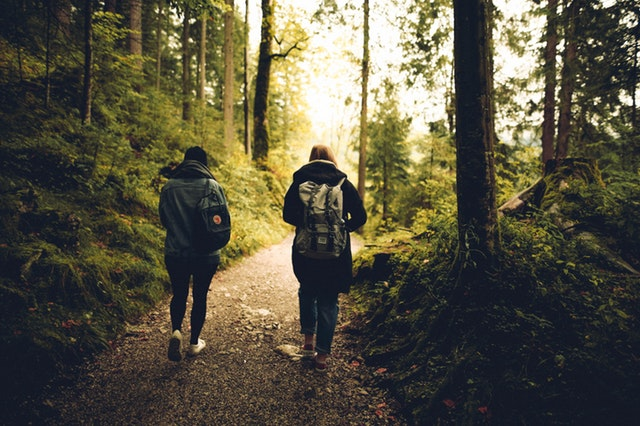
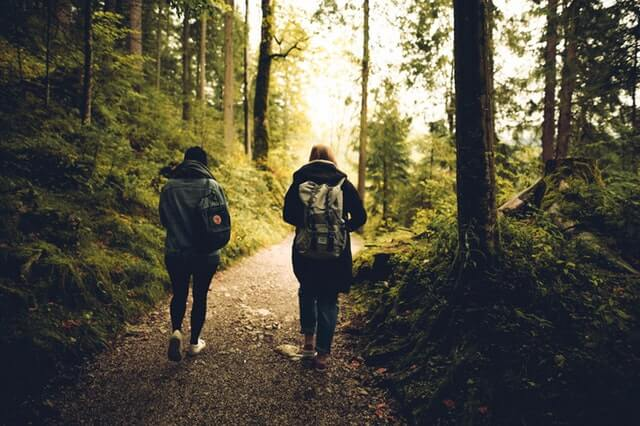
images, css and js optimised

diff --git a/js/main.js b/js/main.js
@@ -184,71 +184,6 @@
     };
 
 
-   /* Alert Boxes
-    * ------------------------------------------------------ */
-    var clAlertBoxes = function() {
-
-        $('.alert-box').on('click', '.alert-box__close', function() {
-            $(this).parent().fadeOut(500);
-        }); 
-
-    };
-
-
-   /* Contact Form
-    * ------------------------------------------------------ */
-    var clContactForm = function() {
-        
-        /* local validation */
-        $('#contactForm').validate({
-        
-            /* submit via ajax */
-            submitHandler: function(form) {
-    
-                var sLoader = $('.submit-loader');
-    
-                $.ajax({
-    
-                    type: "POST",
-                    url: "inc/sendEmail.php",
-                    data: $(form).serialize(),
-                    beforeSend: function() { 
-    
-                        sLoader.slideDown("slow");
-    
-                    },
-                    success: function(msg) {
-    
-                        // Message was sent
-                        if (msg == 'OK') {
-                            sLoader.slideUp("slow"); 
-                            $('.message-warning').fadeOut();
-                            $('#contactForm').fadeOut();
-                            $('.message-success').fadeIn();
-                        }
-                        // There was an error
-                        else {
-                            sLoader.slideUp("slow"); 
-                            $('.message-warning').html(msg);
-                            $('.message-warning').slideDown("slow");
-                        }
-    
-                    },
-                    error: function() {
-    
-                        sLoader.slideUp("slow"); 
-                        $('.message-warning').html("Something went wrong. Please try again.");
-                        $('.message-warning').slideDown("slow");
-    
-                    }
-    
-                });
-            }
-    
-        });
-    };
-
-
    /* Animate On Scroll
     * ------------------------------------------------------ */
     var clAOS = function() {
@@ -294,7 +229,6 @@
             4: '<i class="fa fa-warning"></i> E-mail address is not valid.',
             5: '<i class="fa fa-warning"></i> E-mail address is not valid.'
         } 
-
     };
 
 
@@ -321,8 +255,7 @@
 
    /* Initialize
     * ------------------------------------------------------ */
-    (function ssInit() {
-        
+    (function ssInit() {        
         clPreloader();
         clMenuOnScrolldown();
         clOffCanvas();
@@ -330,8 +263,6 @@
         clMasonryFolio();
         clSmoothScroll();
         clPlaceholder();
-        clAlertBoxes();
-        clContactForm();
         clAOS();
         clAjaxChimp();
         clBackToTop();

diff --git a/index.html b/index.html
@@ -94,7 +94,7 @@
 
     <!-- home
     ================================================== -->
-    <section id="home" class="s-home target-section" data-parallax="scroll" data-image-src="images/main-bg.jpeg" data-natural-width=3000 data-natural-height=2000 data-position-y=center>
+    <section id="home" class="s-home target-section" data-parallax="scroll" data-image-src="images/main-bg.jpg" data-natural-width=3000 data-natural-height=2000 data-position-y=center>
 
         <div class="overlay"></div>
         <div class="shadow-overlay"></div>
@@ -180,19 +180,19 @@
         <div class="row about-stats stats block-1-4 block-m-1-2 block-mob-full" data-aos="fade-up">
                 
             <div class="col-block stats__col ">
-                <div class="stats__count">127</div>
+                <div class="stats__count">0</div>
                 <h5>Days</h5>
             </div>
             <div class="col-block stats__col">
-                <div class="stats__count">1505</div>
+                <div class="stats__count">0</div>
                 <h5>Hours</h5>
             </div>
             <div class="col-block stats__col">
-                <div class="stats__count">109</div>
+                <div class="stats__count">0</div>
                 <h5>Minutes</h5>
             </div>
             <div class="col-block stats__col">
-                <div class="stats__count">102</div>
+                <div class="stats__count">0</div>
                 <h5>Seconds</h5> 
             </div>
 
@@ -618,9 +618,9 @@
 
     <!-- Java Script
     ================================================== -->
+    <script src="js/countdown.js"></script>
     <script src="js/main.js"></script>
     <script src="js/timeline.js"></script>
-    <script src="js/countdown.js"></script>
     <script src="https://embed.small.chat/TA0Q6LA84GA1S6TC6S.js" async></script>
 </body>
 </html>

diff --git a/css/main.css b/css/main.css
@@ -894,58 +894,6 @@ button::-moz-focus-inner, input::-moz-focus-inner {
     padding: 0;
 }
 
-
-/* =================================================================== 
- * # additional components
- *
- * ------------------------------------------------------------------- */
-
-
-/* ------------------------------------------------------------------- 
- * ## alert box
- * ------------------------------------------------------------------- */
-.alert-box {
-    padding: 2.1rem 4rem 2.1rem 3rem;
-    position: relative;
-    margin-bottom: 3rem;
-    border-radius: 3px;
-    font-family: "montserrat-regular", sans-serif;
-    font-size: 1.5rem;
-    line-height: 1.6;
-}
-
-.alert-box__close {
-    position: absolute;
-    right: 1.8rem;
-    top: 1.8rem;
-    cursor: pointer;
-}
-
-.alert-box__close.fa {
-    font-size: 12px;
-}
-
-.alert-box--error {
-    background-color: #ffd1d2;
-    color: #e65153;
-}
-
-.alert-box--success {
-    background-color: #c8e675;
-    color: #758c36;
-}
-
-.alert-box--info {
-    background-color: #d7ecfb;
-    color: #4a95cc;
-}
-
-.alert-box--notice {
-    background-color: #fff099;
-    color: #bba31b;
-}
-
-
 /* ------------------------------------------------------------------- 
  * ## additional typo styles 
  * ------------------------------------------------------------------- */
